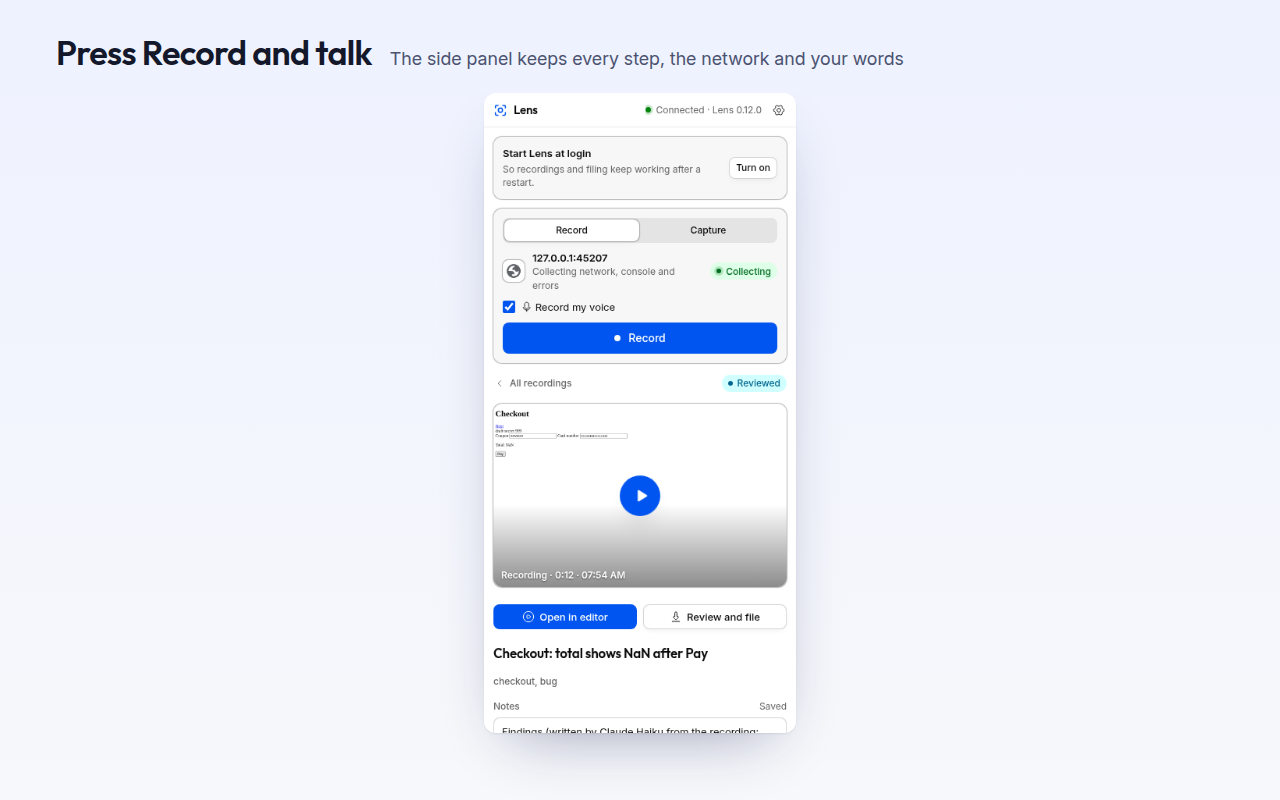
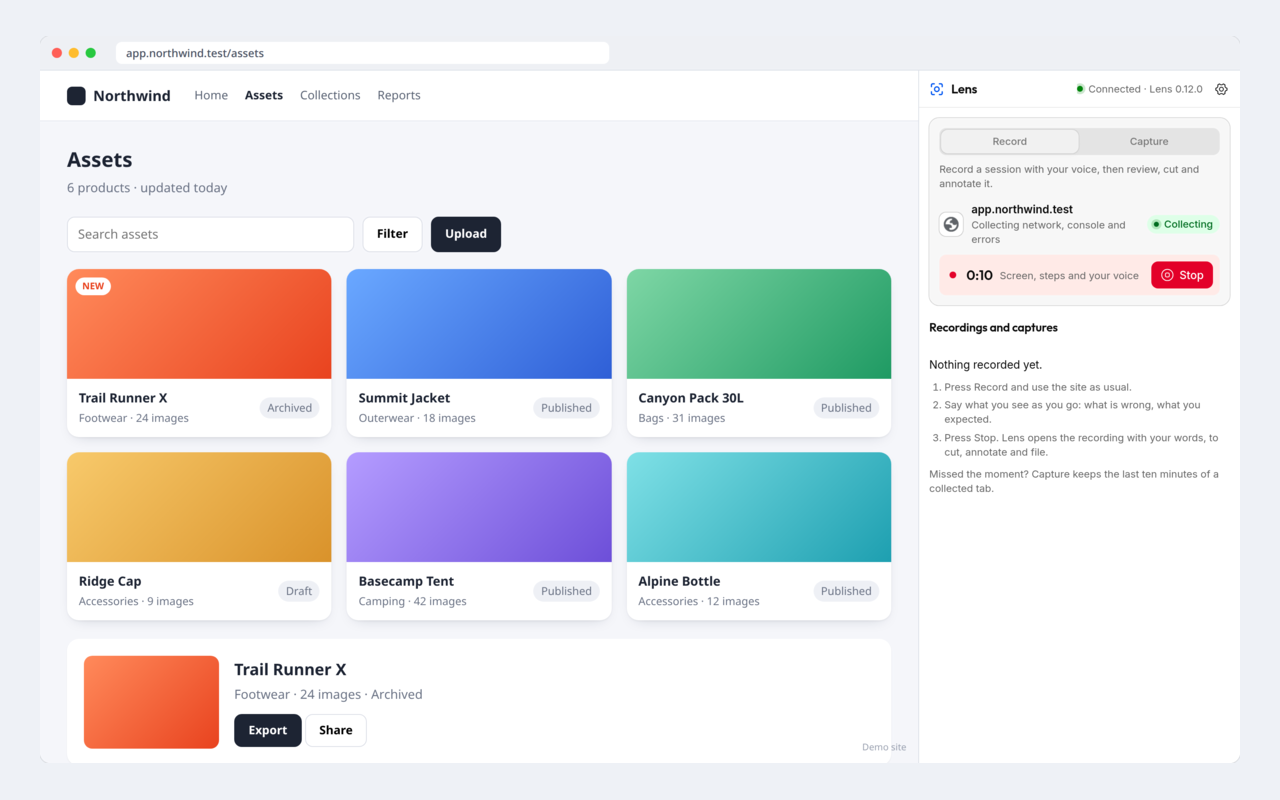
Site: real screenshots from a demo recording, aligned nav
marketing-shots.mjs records a Northwind demo site with a fake voice and takes the
panel, editor and review shots; frame-shots.mjs puts them in browser frames. The
store images come from the same frames. The store listing texts are in site/store.

diff --git a/site/public/index.html b/site/public/index.html
@@ -71,7 +71,7 @@
             <h3>Press Record and talk</h3>
             <p>Open the Lens side panel on the site you test and press Record. Lens keeps every click, key and page change, the network and the console, and your voice. In Chrome you can close the panel: the recording and your voice continue.</p>
           </div>
-          <div class="shot shot-narrow"><img src="/assets/shot-record.webp" alt="The Lens side panel on a site it collects on, with Record and the voice switch" width="400" height="640" loading="lazy"></div>
+          <div class="shot"><img src="/assets/shot-record.webp" alt="A site with the Lens side panel open: the site collects, and a recording runs with Stop" width="2400" height="1454" loading="lazy"></div>
         </div>
         <div class="step">
           <div class="step-text">
@@ -84,7 +84,7 @@
               <li>A long recording with several problems becomes one task each.</li>
             </ul>
           </div>
-          <div class="shot"><img src="/assets/shot-review.webp" alt="The recording editor: the replay with a highlighted field, the transcript and the notes" width="1280" height="720" loading="lazy"></div>
+          <div class="shot"><img src="/assets/shot-review.webp" alt="The recording editor: the replay with your words as captions, the transcript, and the steps with an HTTP 500" width="2400" height="1662" loading="lazy"></div>
         </div>
         <div class="step">
           <div class="step-text">
@@ -92,7 +92,7 @@
             <h3>File it, or put an agent on it</h3>
             <p>With your Claude Code or Codex, Lens writes the title and findings and checks VibeQ for the same problem. Then it files the task with the steps, the screenshots and the replay. Prefer files? Export it to a folder with a Playwright test.</p>
           </div>
-          <div class="shot"><img src="/assets/shot-file.webp" alt="The review page before filing: the findings, a likely duplicate in VibeQ, and the Sirvant option" width="1280" height="760" loading="lazy"></div>
+          <div class="shot"><img src="/assets/shot-file.webp" alt="The review page before filing: the findings, a likely duplicate in VibeQ, and the Sirvant option" width="2400" height="1318" loading="lazy"></div>
         </div>
       </div>
     </div>

diff --git a/extension/wxt.config.ts b/extension/wxt.config.ts
@@ -9,7 +9,7 @@ export default defineConfig({
     const firefox = browser === 'firefox';
     return {
       name: 'Sirv Lens',
-      description: 'Capture browser defects with their evidence, review them, and file them.',
+      description: 'Record a bug with your voice: get a task with the steps, network errors and a replay. Works with the free Sirv Lens app.',
       permissions: [
         'nativeMessaging',
         'storage',
@@ -23,7 +23,8 @@ export default defineConfig({
       // there, and still collects only on the sites the person adds.
       optional_host_permissions: ['http://*/*', 'https://*/*', ...(firefox ? ['<all_urls>'] : [])],
       // The end-to-end build pre-grants the local fixture origin: a test cannot click Chrome's prompt.
-      ...(process.env.LENS_E2E ? { host_permissions: ['http://127.0.0.1/*'] } : {}),
+      // .test is reserved for testing: the product screenshots serve their demo site there.
+      ...(process.env.LENS_E2E ? { host_permissions: ['http://127.0.0.1/*', 'http://*.test/*'] } : {}),
       action: { default_title: 'Open Lens' },
       commands: {
         capture: {

diff --git a/site/public/assets/site.css b/site/public/assets/site.css
@@ -90,7 +90,7 @@ p { margin: 0; }
 .top .wrap { display: flex; align-items: center; gap: 24px; height: 64px; }
 .brand { display: flex; align-items: center; gap: 10px; color: var(--text); text-decoration: none; font: 600 18px var(--display); }
 .brand img { width: 28px; height: 28px; }
-.top nav { display: flex; gap: 22px; margin-left: auto; font-size: 14px; }
+.top nav { display: flex; align-items: center; gap: 22px; margin-left: auto; font-size: 14px; line-height: 1; }
 .top nav a { color: var(--muted); text-decoration: none; }
 .top nav a:hover { color: var(--text); }
 .top nav a.btn-primary, .top nav a.btn-primary:hover { color: #fff; }
@@ -188,7 +188,6 @@ section.block { padding: 96px 0; }
   box-shadow: 0 1px 2px rgb(0 0 0 / 8%), 0 20px 50px -30px rgb(20 30 80 / 40%);
 }
 .shot img { width: 100%; height: auto; }
-.shot-narrow { justify-self: center; width: min(400px, 100%); }
 @media (min-width: 900px) {
   .step { grid-template-columns: 5fr 7fr; gap: 56px; }
   .step:nth-child(even) { grid-template-columns: 7fr 5fr; }

diff --git a/site/store/listing.md b/site/store/listing.md
@@ -1,0 +1,64 @@
+# Store listing texts (Chrome Web Store, Firefox Add-ons)
+
+Packages: `cd extension && LENS_STORE=1 pnpm zip && LENS_STORE=1 pnpm zip:firefox`
+(`.output/sirv-lens-extension-<v>-chrome.zip`, `-firefox.zip`, `-sources.zip`). Images: this folder.
+
+## Name and summary
+
+- Name: Sirv Lens
+- Summary (manifest description, 120 characters): Record a bug with your voice: get a task with the
+  steps, network errors and a replay. Works with the free Sirv Lens app.
+- Category: Developer Tools (Chrome); Web Development (Firefox)
+- Homepage: https://lens.sirv.studio
+- Support: https://lens.sirv.studio/support, lens@sirv.studio
+- Privacy policy: https://lens.sirv.studio/privacy
+
+## Description
+
+Lens turns "this looks broken" into a task that a developer or a coding agent can reproduce.
+
+Open the Lens side panel on the site you test, press Record and talk. Lens keeps your clicks, keys and page changes, the network and the console, and your voice. Press Stop and Lens opens the recording: a replay of the page with your words, written down on your computer.
+
+- Trim and cut, draw on the page, highlight an element, and black out anything private.
+- With your own Claude Code or Codex (optional), Lens writes the title and findings, splits a long recording into one task per problem, and checks VibeQ for duplicates.
+- File to VibeQ with the steps, the screenshots and the replay, or export a folder with a report, a structured record and a Playwright test.
+- Coding agents read reviewed recordings from Lens over MCP.
+
+Private by default
+- Lens reads a site only after you allow it, one site at a time.
+- Recordings and your voice stay on your computer until you file or export them. Audio never leaves your computer.
+- Passwords, card numbers and private fields are masked. Cookies, request headers and tokens are never recorded.
+- No analytics, no tracking, and no server of ours.
+
+Lens needs its free companion app for macOS or Linux (Windows soon): https://lens.sirv.studio. The app stores the recordings, writes down your voice with Whisper and files the tasks. The extension talks only to that app, on your computer.
+
+Why each permission: https://lens.sirv.studio/permissions
+Privacy policy: https://lens.sirv.studio/privacy
+
+## Chrome: privacy practices
+
+Single purpose: Lens records a browser session with the user's voice and turns it into a reproducible bug report (the steps, the network and console evidence, and a replay) that the user reviews and files.
+
+Permission justifications:
+- debugger: To read what the page did on sites the user allowed: network requests and their status, bodies of the site's own API calls and failed requests, console errors, and a screenshot after each step. Lens attaches only to tabs of allowed sites.
+- nativeMessaging: To talk to the Sirv Lens app on the same computer, which stores recordings, transcribes the voice and files tasks. The extension talks to no server.
+- sidePanel: Lens works from the side panel: Record, Stop, recordings and notes.
+- tabs: To know which site the active tab shows, so Lens collects only on allowed sites, and to open the review page after a recording.
+- scripting: To add the recorder (page structure and the user's steps, private fields masked) to tabs of allowed sites.
+- activeTab: To capture the tab in front when the user clicks the Lens button or presses its shortcut.
+- storage: To keep the user's settings, such as the recording mode and whether to record the voice.
+- offscreen: To keep recording the user's voice while the side panel is closed during a recording.
+- favicon: To show each site's icon in the side panel.
+- Host permissions (optional, http/https): requested for one site at a time when the user chooses "Collect evidence on this site"; no site access until then.
+
+Remote code: No. All code is in the package.
+
+Data usage (handled on the user's computer, sent only where the user files): Website content, User activity, Web history. Certify: not sold to third parties; not used or transferred for purposes unrelated to the single purpose; not used for creditworthiness or lending.
+
+## Firefox: notes for reviewers
+
+The extension needs its companion app (native messaging host studio.sirv.lens). To test:
+1. Download the app from https://lens.sirv.studio (Linux AppImage or deb, or the notarized macOS DMG) and open it once. It registers the native messaging host for Firefox and opens a welcome page.
+2. Load the add-on, open its sidebar on any http(s) site, choose "Collect evidence on this site", then Record and Stop. The recording opens for review.
+
+Source: the package is built with WXT (Vite) from the attached source archive; see BUILD.md in it (`pnpm install --frozen-lockfile && pnpm zip:firefox`). The `<all_urls>` optional permission is requested only because Firefox allows tab screenshots (tabs.captureVisibleTab) only with it; Lens still records only the sites the user adds. data_collection_permissions is "none": the extension sends nothing to any server; the app sends data only when the user files to a destination they configured.
